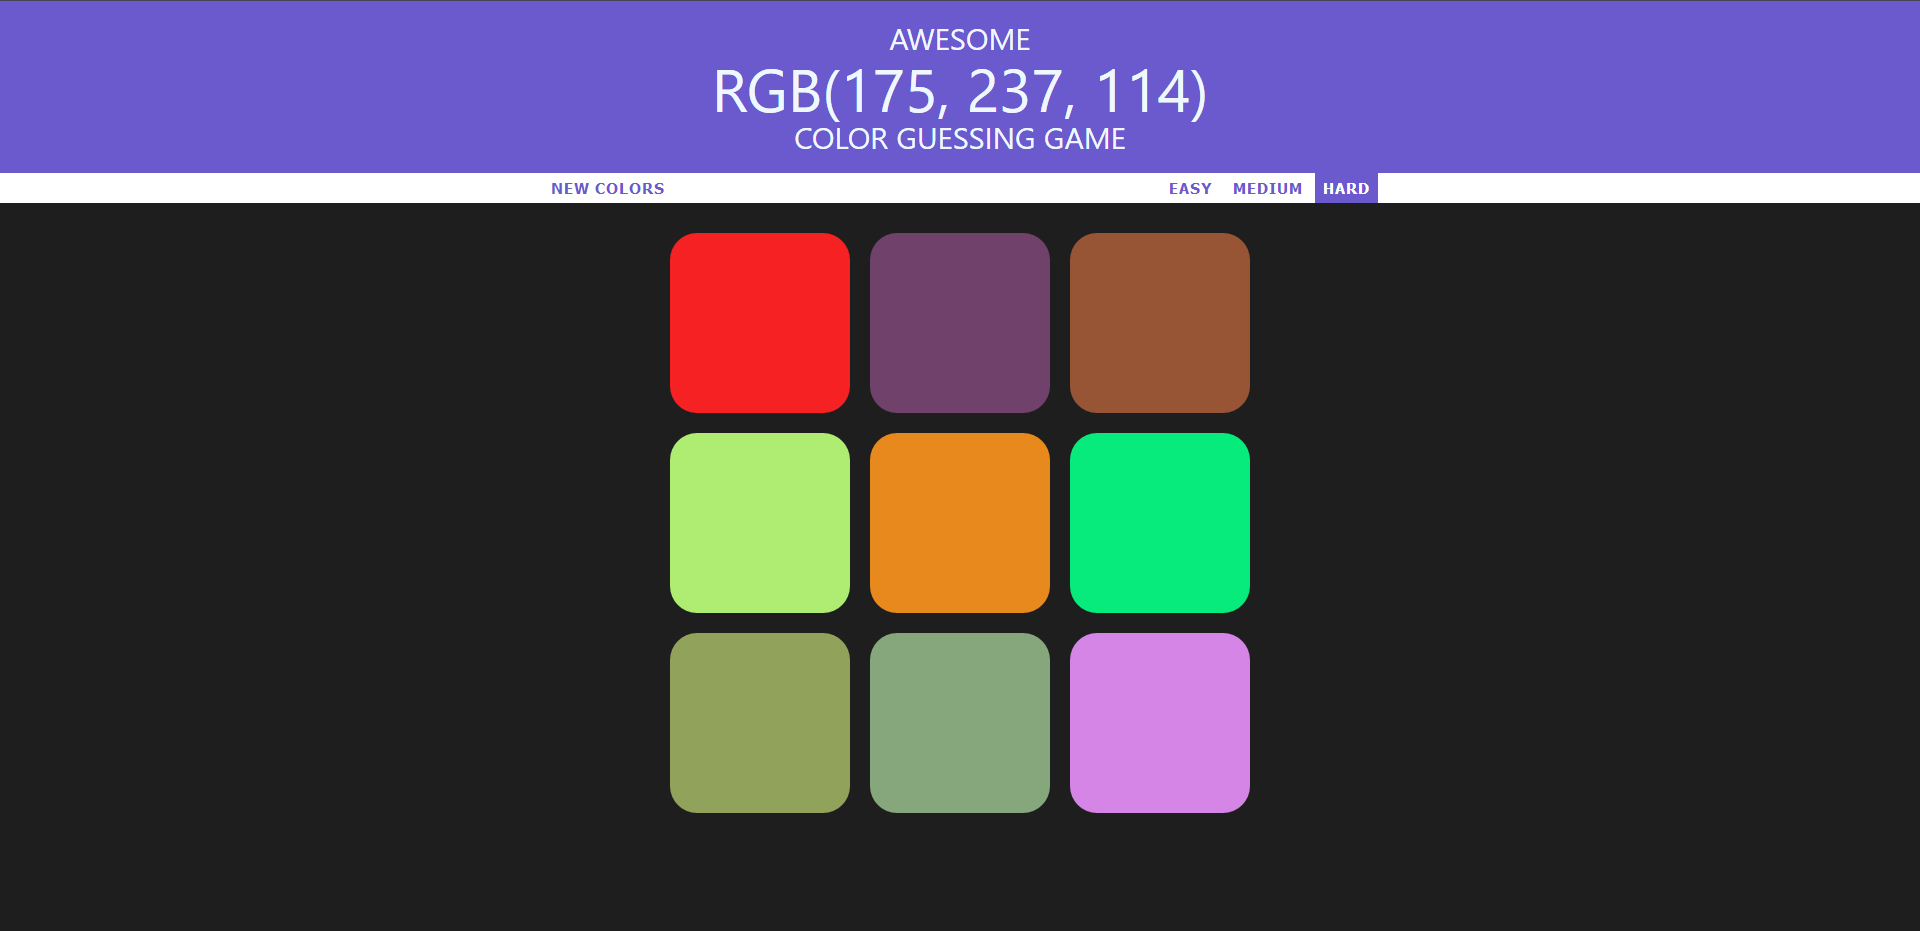
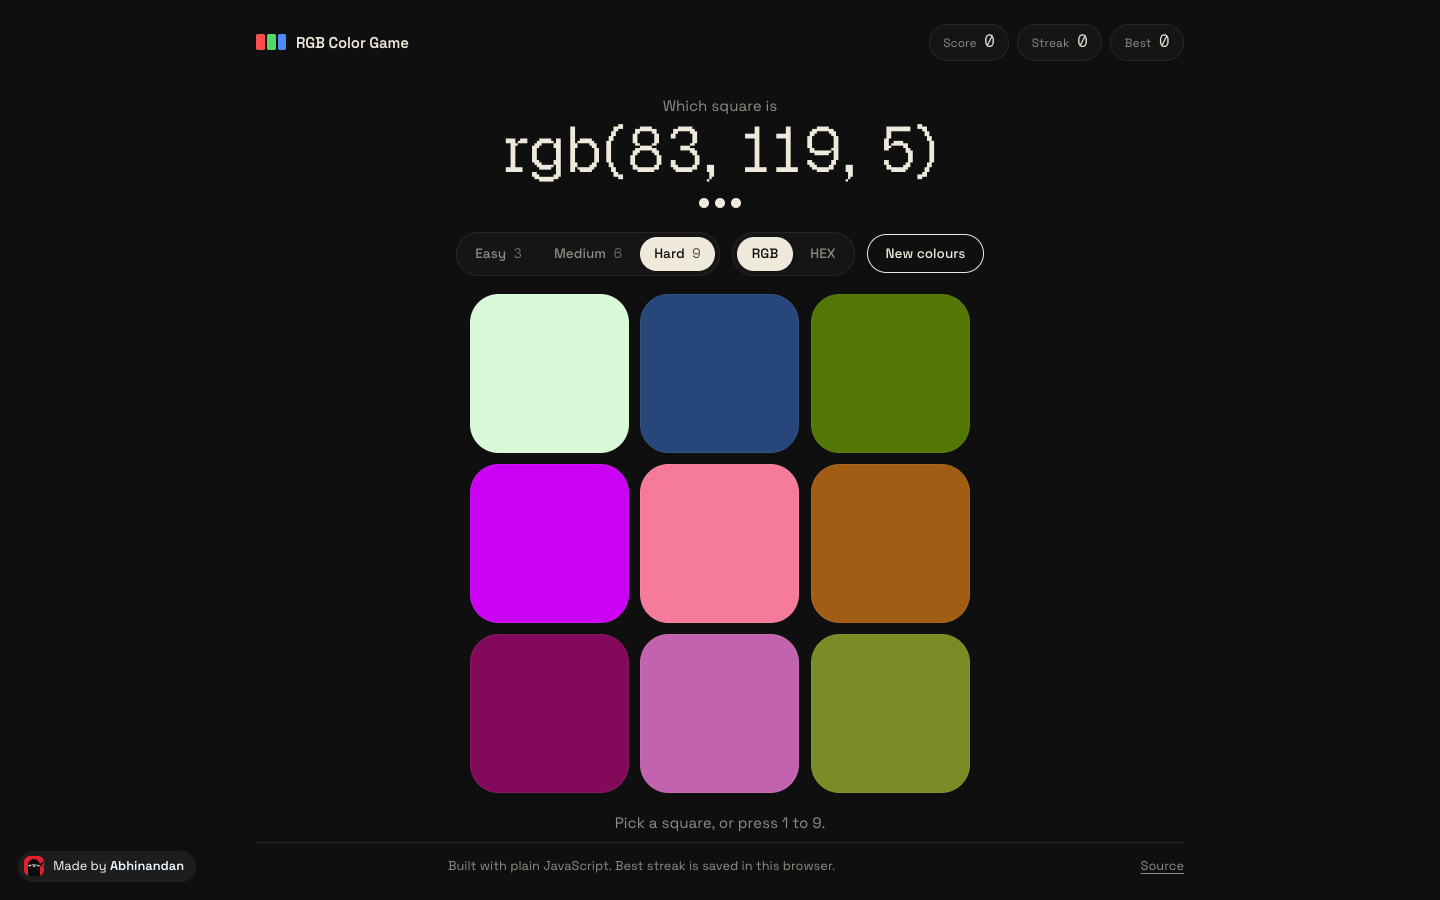
README: current screenshots and copy

diff --git a/README.md b/README.md
@@ -1,29 +1,30 @@
 # RGB Color Game
 
-Pick the square that matches the RGB or hex value. Score, streaks, three lives a round, keyboard play (1 to 9, Enter for the next round), and a grid of 3, 6 or 9 colours. Plain JavaScript and CSS, numerals in Geist Pixel.
-<strong>Fully responsive
+Pick the square that matches the RGB or hex value. Three lives a round, a score that rewards first-try guesses, a streak with your best saved in the browser, and a grid of 3, 6 or 9 colours.
 
-## Three basic modes - 
-### 1) EASY -    choose from "3" different colors
-### 1) MEDIUM -  choose from "6" different colors
-### 1) HARD -    choose from "9" different colors
+**[Play it](https://abhinandansharma.github.io/ColorGame/)**
 
-#### Guess the color of the given RGB value.
-**[Play it](https://abhinandansharma.github.io/ColorGame/)** · [CodePen version](https://codepen.io/abhinandansharma/pen/VweErOz)
+![RGB Color Game, medium difficulty](images/medium.png)
 
-## EASY
-<img src="images/easy.png"> </img>
+## How to play
 
-## MEDIUM
-<img src="images/medium.png"> </img>
+- The value at the top is the colour you are looking for. Switch between **RGB** and **HEX** notation at any time.
+- Click a square, or press **1 to 9**. A wrong square drops out and costs a life; the message tells you how far off you were.
+- Get it right and every square, and the page, turns that colour. **Enter** or **Next** starts a new round.
+- **Easy**, **Medium** and **Hard** change the grid to 3, 6 or 9 squares. Harder grids score more.
 
-## HARD
-<img width="1920" height="931" alt="hard" src="https://github.com/user-attachments/assets/cfec28b0-7e63-419d-92bb-f157e7630838" />
+## Hard mode and a win
 
-### To play locally, just clone it and open index.html file in your browser.
+![Hard mode](images/hard.png)
 
-### Clone it 👇
-<code> https://github.com/abhinandansharma/ColorGame.git </code>
+![A correct guess fills the page with the colour](images/correct.png)
 
-#### Thanks for checking this out!
+## Stack
 
+Plain HTML, CSS and JavaScript, no dependencies. Space Grotesk for text and [Geist Pixel](https://vercel.com/font) (Square) for the values, self-hosted. Best streak is stored in `localStorage`.
+
+## Run it locally
+
+Clone the repository and open `index.html` in a browser. The original 2020 version lives on [CodePen](https://codepen.io/abhinandansharma/pen/VweErOz).
+
+Built by [Abhinandan Sharma](https://abhinandansharma.github.io/portfolio/).
